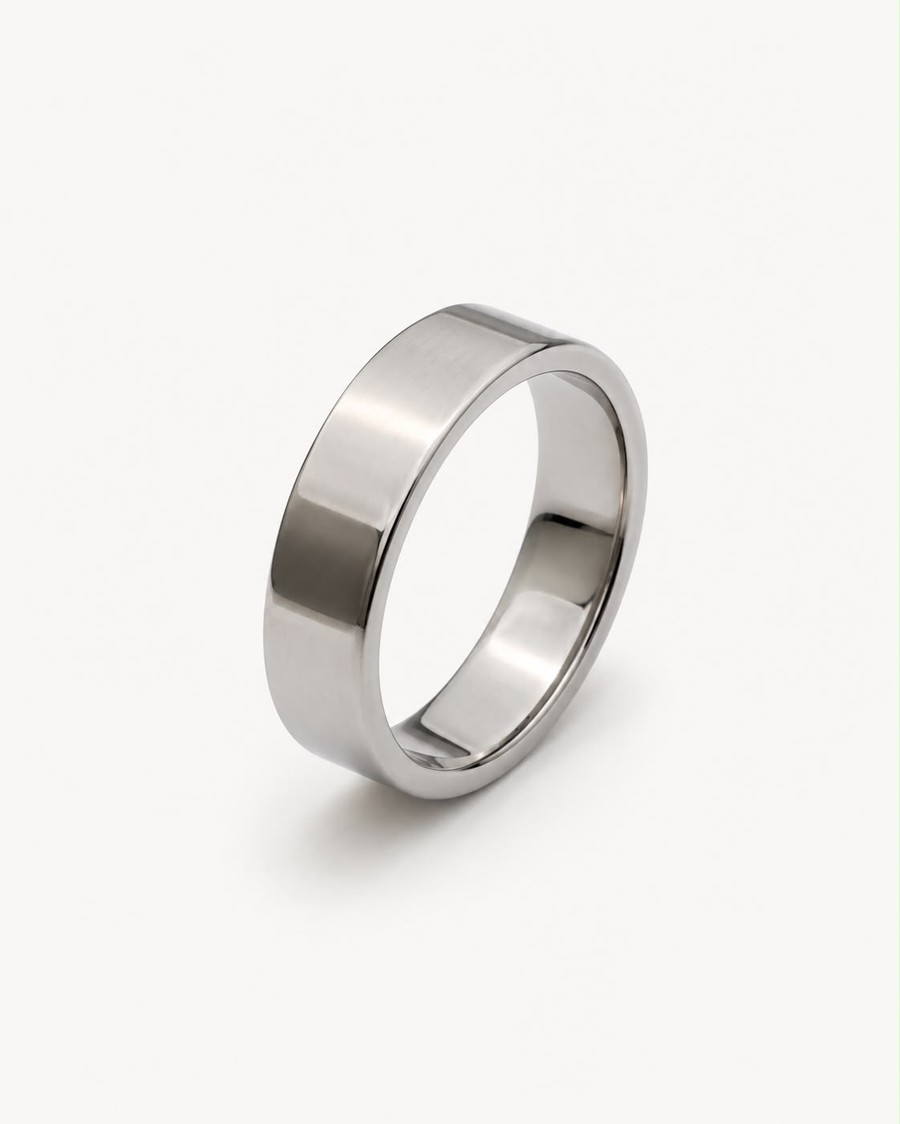
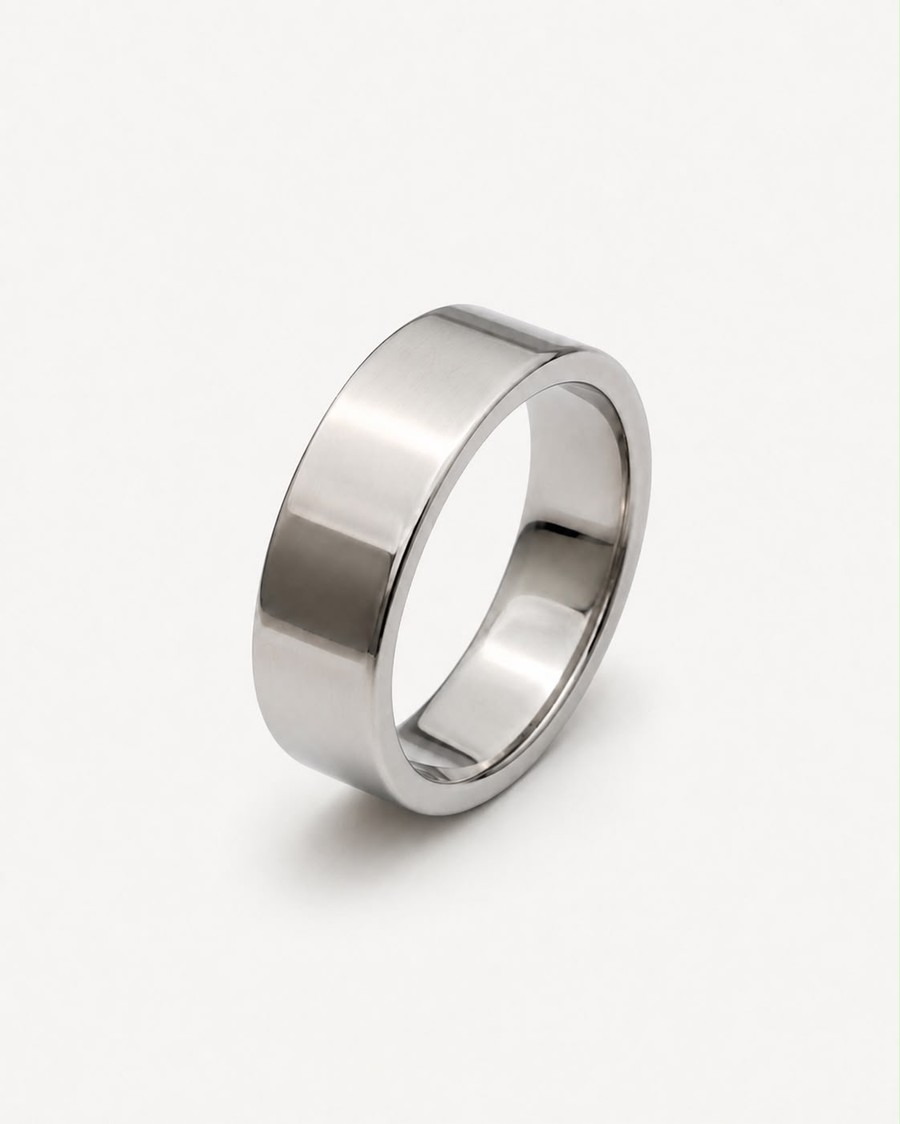
Update "Anillo Cuba Silver" photo and specs — it's a thicker 7mm band
New photo shows the correct (thicker) ring. Adds grosor (7mm) and the
exact available sizes (18-22).

Changed region(s): [[0.28, 0.2491, 0.7467, 0.7785], [0.3733, 0.2802, 0.4667, 0.3425], [0.3422, 0.3425, 0.3733, 0.4048]]

diff --git a/index.html b/index.html
@@ -141,7 +141,7 @@
 <!-- Modal de producto: lo arma site.js -->
 <div id="product-modal" class="product-modal" hidden></div>
 
-<script src="assets/js/products.js?v=53"></script>
+<script src="assets/js/products.js?v=54"></script>
 <script src="assets/js/shipping.js?v=5"></script>
 <script src="assets/js/site.js?v=23"></script>
 </body>

diff --git a/assets/js/products.js b/assets/js/products.js
@@ -755,8 +755,8 @@ const PRODUCTOS = {
       color: "gold",
       detalles: [
         "Material: acero quirúrgico",
-        "Diseño: banda lisa plana",
-        "Varios talles disponibles",
+        "Diseño: banda lisa plana, 7 mm de grosor",
+        "Talles disponibles: 18, 19, 20, 21 y 22",
       ],
     },
   ],
